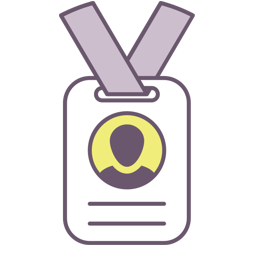
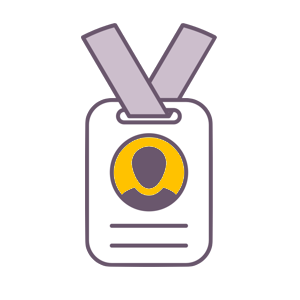
work on zones

Changed region(s): [[0.2188, 0.0, 0.7812, 0.9688], [0.3125, 0.2188, 0.3438, 0.25], [0.2812, 0.1562, 0.3125, 0.1875]]

diff --git a/app/Http/Controllers/Admin/ExplorerController.php b/app/Http/Controllers/Admin/ExplorerController.php
@@ -268,9 +268,9 @@ class ExplorerController extends Controller
         // Zone-Zone (parent/child)
         $links = DB::table('zone_zone')->select('zone_id', 'related_zone_id')->get();
         foreach ($links as $link) {
-            $this->addLinkEdge(
-                $this->formatId(Zone::$prefix, $link->related_zone_id),
-                $this->formatId(Zone::$prefix, $link->zone_id)
+            $this->addFluxEdge(null, false,
+                $this->formatId(Zone::$prefix, $link->zone_id),
+                $this->formatId(Zone::$prefix, $link->related_zone_id)
             );
         }
 

diff --git a/resources/views/admin/zones/show.blade.php b/resources/views/admin/zones/show.blade.php
@@ -9,6 +9,11 @@
     <a class="btn btn-default" href="{{ route('admin.zones.index') }}">
         {{ trans('global.back_to_list') }}
     </a>
+
+    <a class="btn btn-success" href="{{ route('admin.report.explore') }}?node={{$zone->getUID()}}">
+        {{ trans('global.explore') }}
+    </a>
+
     @can('zone_edit')
         <a class="btn btn-info" href="{{ route('admin.zones.edit', $zone->id) }}">
             {{ trans('global.edit') }}

diff --git a/app/Models/Zone.php b/app/Models/Zone.php
@@ -30,7 +30,7 @@ class Zone extends Model implements HasPrefix, HasIconContract
 
     public $table = 'zones';
 
-    public static string $prefix = 'ZONE_';
+    public static string $prefix = 'ZONE_SEC_';
 
     public static string $icon = '/images/zone.png';
 

diff --git a/app/Models/ZoneAdmin.php b/app/Models/ZoneAdmin.php
@@ -20,7 +20,7 @@ class ZoneAdmin extends Model implements HasIconContract, HasPrefix
 
     public $table = 'zone_admins';
 
-    public static string $prefix = 'ZONE_';
+    public static string $prefix = 'ZONE_AD_';
 
     public static string $icon = '/images/zoneadmin.png';
 